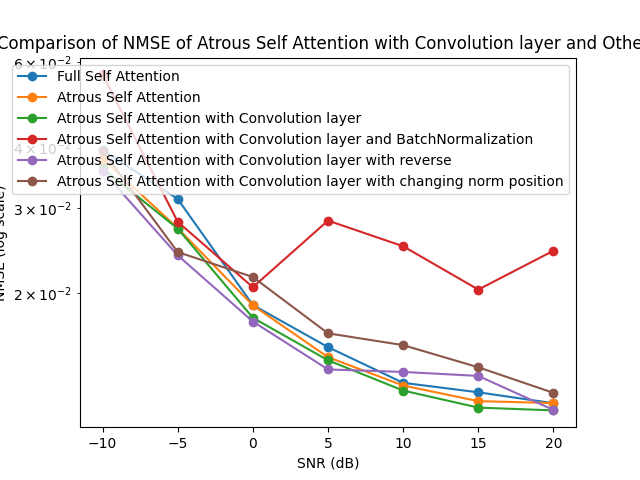
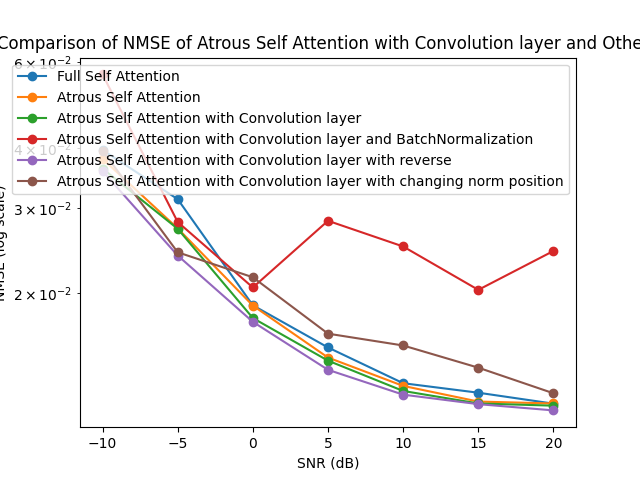
message

diff --git a/SPR-CNN/result-BatchNormalization-reverse.py b/SPR-CNN/result-BatchNormalization-reverse.py
@@ -20,7 +20,7 @@ y3 = [0.03793514147400856, 0.02725178748369217, 0.018875764682888985, 0.01474222
 
 # Transformers(Encoder * 2 + Decoder * 2, (16 * 32 * 4)), epochs = 400, lr = 0.0001, batch_size = 32
 # 自己寫的 multi-head self attention, Atrous Self Attention, ff layer 用 Conv1D
-y4 = [0.03621919825673103, 0.0272029098123312, 0.017789877951145172, 0.014526165090501308, 0.012576806358993053, 0.011595480144023895, 0.011442258022725582]
+y4 = [0.03621919825673103, 0.0272029098123312, 0.017789877951145172, 0.014526165090501308, 0.012576806358993053, 0.011850962415337563, 0.011727375909686089]
 
 # Transformers(Encoder * 2 + Decoder * 2, (16 * 32 * 4)), epochs = 400, lr = 0.0001, batch_size = 32
 # 自己寫的 multi-head self attention, Atrous Self Attention, ff layer 用 Conv1D, 使用 BatchNormalization
@@ -28,7 +28,7 @@ y5 = [0.05668972060084343, 0.028094256296753883, 0.020573817193508148, 0.0282543
 
 # Transformers(Encoder * 2 + Decoder * 2, (16 * 32 * 4)), epochs = 400, lr = 0.0001, batch_size = 32
 # 自己寫的 multi-head self attention, Atrous Self Attention, ff layer 用 Conv1D, reverse attention layer and ff layer
-y6 = [0.03578875958919525, 0.02395220287144184, 0.017472850158810616, 0.013907503336668015, 0.01374274492263794, 0.013484571129083633, 0.011466003023087978]
+y6 = [0.03578875958919525, 0.02395220287144184, 0.017472850158810616, 0.013907503336668015, 0.012358094565570354, 0.011811657808721066, 0.011466003023087978]
 
 # Transformers(Encoder * 2 + Decoder * 2, (16 * 32 * 4)), epochs = 400, lr = 0.0001, batch_size = 32
 # 自己寫的 multi-head self attention, Atrous Self Attention, ff layer 用 Conv1D, change norm position
@@ -82,7 +82,7 @@ y3 = [15.50823359352834, 15.605196758612788, 15.680765231318805, 15.717912628820
 
 # Transformers(Encoder * 2 + Decoder * 2, (16 * 32 * 4)), epochs = 400, lr = 0.0001, batch_size = 32
 # 自己寫的 multi-head self attention, Atrous Self Attention, ff layer 用 Conv1D
-y4 = [15.523851843084003, 15.605638873813945, 15.690533174195762, 15.71985169518842, 15.73733479108248, 15.7461279053344, 15.747500409925326]
+y4 = [15.523851843084003, 15.605638873813945, 15.690533174195762, 15.71985169518842, 15.73733479108248, 15.74383919925955, 15.744946353832843]
 
 # Transformers(Encoder * 2 + Decoder * 2, (16 * 32 * 4)), epochs = 400, lr = 0.0001, batch_size = 32
 # 自己寫的 multi-head self attention, Atrous Self Attention, ff layer 用 Conv1D, 使用 BatchNormalization
@@ -90,7 +90,7 @@ y5 = [15.336422811727001, 15.597574072960933, 15.665477346013974, 15.59612463915
 
 # Transformers(Encoder * 2 + Decoder * 2, (16 * 32 * 4)), epochs = 400, lr = 0.0001, batch_size = 32
 # 自己寫的 multi-head self attention, Atrous Self Attention, ff layer 用 Conv1D, reverse attention layer and ff layer
-y6 = [15.527766755550392, 15.635012816385569, 15.693383651016465, 15.725402559240159, 15.72688045009137, 15.729196030441454, 15.747287674243054]
+y6 = [15.527766755550392, 15.635012816385569, 15.693383651016465, 15.725402559240159, 15.739294969447322, 15.744191286753392, 15.747287674243054]
 
 # Transformers(Encoder * 2 + Decoder * 2, (16 * 32 * 4)), epochs = 400, lr = 0.0001, batch_size = 32
 # 自己寫的 multi-head self attention, Atrous Self Attention, ff layer 用 Conv1D, change norm position

diff --git a/SPR-CNN/result.py b/SPR-CNN/result.py
@@ -202,7 +202,7 @@ y3 = [0.03793514147400856, 0.02725178748369217, 0.018875764682888985, 0.01474222
 
 # Transformers(Encoder * 2 + Decoder * 2, (16 * 32 * 4)), epochs = 400, lr = 0.0001, batch_size = 32
 # 自己寫的 multi-head self attention, Atrous Self Attention, ff layer 用 Conv1D
-y4 = [0.03621919825673103, 0.0272029098123312, 0.017789877951145172, 0.014526165090501308, 0.012576806358993053, 0.011595480144023895, 0.011442258022725582]
+y4 = [0.03621919825673103, 0.0272029098123312, 0.017789877951145172, 0.014526165090501308, 0.012576806358993053, 0.011850962415337563, 0.011727375909686089]
 
 # draw
 # plt.plot(x, y1, marker='o', label='CNN')
@@ -248,7 +248,7 @@ y3 = [15.50823359352834, 15.605196758612788, 15.680765231318805, 15.717912628820
 
 # Transformers(Encoder * 2 + Decoder * 2, (16 * 32 * 4)), epochs = 400, lr = 0.0001, batch_size = 32
 # 自己寫的 multi-head self attention, Atrous Self Attention, ff layer 用 Conv1D
-y4 = [15.523851843084003, 15.605638873813945, 15.690533174195762, 15.71985169518842, 15.73733479108248, 15.7461279053344, 15.747500409925326]
+y4 = [15.523851843084003, 15.605638873813945, 15.690533174195762, 15.71985169518842, 15.73733479108248, 15.74383919925955, 15.744946353832843]
 
 # draw
 # plt.plot(x, y1, marker='o', label='CNN')

diff --git a/SPR-CNN/loop.py b/SPR-CNN/loop.py
@@ -22,7 +22,7 @@ SNR_dB_range = range(-10, 21, 5)
 # 遍历 SNR_dB 参数的范围
 for SNR_dB in SNR_dB_range:
     # 构建完整的命令字符串
-    command = f"{base_command} {SNR_dB}"
+    command = f"{base_command} 20"
     
     # 执行命令
     result = subprocess.run(command, shell=True)
